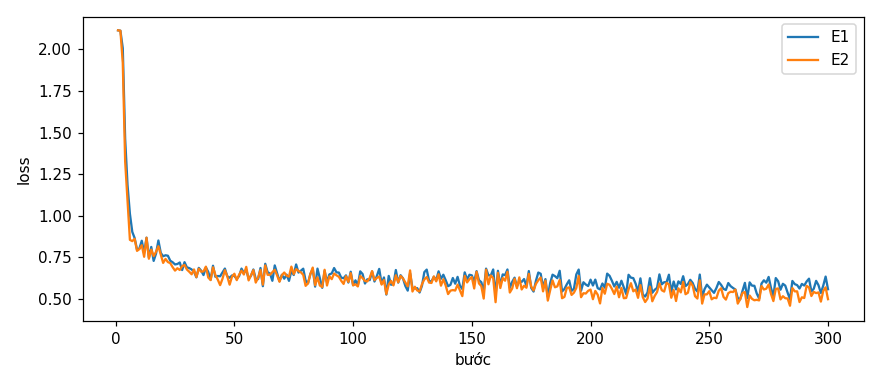
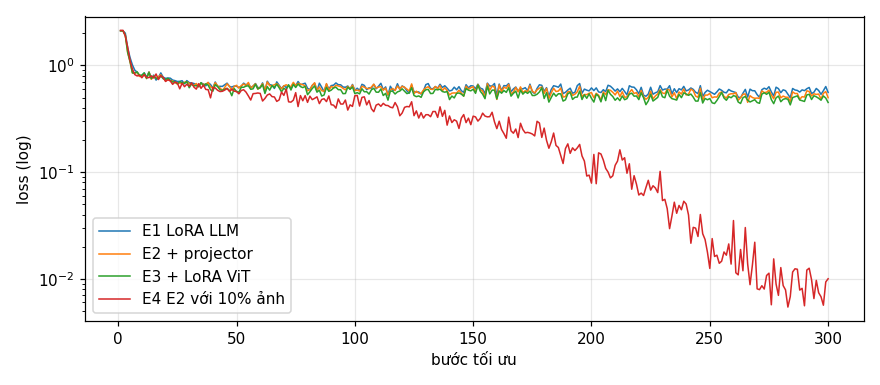
docs: hoan thien REPORT - E3/E4, cau 7-10, nhin lai; anh E3 dung/sai, loss 4 lan train

diff --git a/REPORT.md b/REPORT.md
@@ -10,11 +10,13 @@ Mọi setup: Qwen3-VL-4B-Instruct, QLoRA NF4 (double quant), `visual` + `lm_head
 | E0 | zero-shot | 0 | — (chỉ suy luận) | 0 | 0,095 | 0,069–0,125 | 1,10 | 0,157 | 0,028 | 0,213 |
 | E1 | LoRA LLM | 33.030.144 | 6,44 | 42,2 | 0,273 | 0,235–0,311 | 1,20 | 0,189 | 0,207 | 0,516 |
 | E2 | + projector | 142.135.296 | 8,13 | 49,7 | 0,327 | 0,291–0,368 | 1,12 | 0,157 | 0,285 | 0,564 |
-| E3 | + LoRA ViT | <điền: chờ Version #2> | | | | | | | | |
-| E4 | data_size = 0,1 (gốc E2) | <điền: chờ Version #2> | | | | | | | | |
+| E3 | + LoRA ViT | 148.426.752 | 8,31 | 51,1 | **0,464** | 0,424–0,507 | 0,88 | 0,340 | 0,399 | 0,689 |
+| E4 | `data_size` = 0,1 (gốc E2; 142 ảnh) | 142.135.296 | 7,58 | 41,8 | 0,214 | 0,182–0,245 | 1,89 | 0,167 | 0,142 | 0,460 |
+| E4 | `data_size` = 1,0 (= E2) | 142.135.296 | 8,13 | 49,7 | 0,327 | 0,291–0,368 | 1,12 | 0,157 | 0,285 | 0,564 |
 
-Thêm: `parse_valid_rate` E0/E1/E2 = 0,923 / 0,994 / 0,997; mean IoU của cặp khớp = 0,600 / 0,678 / 0,684.
-Đường loss: `report/figures/loss_curves.png` (E1: 2,11 → ~0,58 trung bình 10 bước cuối; E2: 2,11 → ~0,54).
+Thêm: `parse_valid_rate` E0/E1/E2/E3/E4(0,1) = 0,923 / 0,994 / 0,997 / 1,000 / 1,000; mean IoU của cặp khớp = 0,600 / 0,678 / 0,684 / 0,696 / 0,641.
+`e4_data_1.0.json` là chấm lại đúng file dự đoán của E2 dưới tên E4 (cùng một lần chạy, không train lại).
+Đường loss (`report/figures/loss_curves.png`, trung bình 10 bước cuối): E1 2,11 → 0,58; E2 → 0,54; E3 → 0,50; E4 (10% ảnh) → **0,009**.
 
 ## 10 câu hỏi (trả lời bằng **số của bạn**, không chép lại tài liệu)
 
@@ -32,7 +34,7 @@ Thêm: `parse_valid_rate` E0/E1/E2 = 0,923 / 0,994 / 0,997; mean IoU của cặp
 
 - **E1**: chỉ LoRA r=16 trên 252 module của LLM (`q,k,v,o,gate,up,down` × 36 lớp) = 33,03M tham số; ViT và projector đóng băng.
 - **E2**: E1 + projector huấn luyện **đầy đủ** ở fp32 → 142,14M; chênh E1 đúng 109.105.152 = merger + deepstack.
-- **E3**: E2 + LoRA trên 96 module của ViT (`attn.qkv, attn.proj, mlp.linear_fc1/2` × 24 block) → 348 module LoRA. Lần chạy thử in ra LoRA = 39.321.600 (LLM 33,03M + ViT 6,29M), tức tổng ≈ 148,4M. <điền: xác nhận bằng meta của e3.json>
+- **E3**: E2 + LoRA trên 96 module của ViT (`attn.qkv, attn.proj, mlp.linear_fc1/2` × 24 block) → 348 module LoRA. Log E3: `LoRA targets=llm+vit: 348 module`, `tham số huấn luyện: 148,426,752 (LoRA 39,321,600 + projector 109,105,152)` — LoRA ViT chỉ thêm 6,29M tham số. ViT vẫn ở fp16 và đóng băng phần gốc; chỉ adapter LoRA của nó được học.
 
 ### Câu 2 — E0: `parse_valid_rate` bằng bao nhiêu, và hai lỗi phổ biến nhất của model gốc là gì (kèm một ví dụ output thô)?
 `parse_valid_rate` = **0,923** (24/311 ảnh hỏng). Model gốc *không* bọc ```` ```json ```` và không viết chữ thừa (0/311), không dùng nhãn ngoài 3 lớp, chỉ 1/311 ảnh có toạ độ > 1000 — tức format và thang 0–1000 nó gần như làm đúng. Hai lỗi chính:
@@ -79,37 +81,52 @@ Giao tập phiên giữa các split đều = 0 (kiểm tra trong notebook). Ản
 
 ### Câu 7 — So sánh E1/E2/E3: mở projector và LoRA trên ViT có đáng không (F1, CI95, VRAM, thời gian)?
 - **E1 → E2 (mở projector)**: F1 0,273 → 0,327 (+0,054), crack 0,207 → 0,285, manhole 0,516 → 0,564; pothole giảm 0,189 → 0,157. Trả thêm 109M tham số, +1,69 GB VRAM, +7,5 phút (42,2 → 49,7). Đáng giá: rẻ, và cải thiện chủ yếu ở định vị (mean IoU 0,678 → 0,684, recall 0,259 → 0,312). Nhưng CI95 hai bên còn chồng nhau ở 0,291–0,311 nên chưa chắc chắn tuyệt đối.
-- **E2 → E3 (LoRA ViT)**: <điền: chờ e3.json — F1, CI95, VRAM, phút>
+- **E2 → E3 (LoRA ViT)**: F1 0,327 → **0,464** (+0,137), CI95 0,424–0,507 **tách hẳn** CI của E2 (0,291–0,368). Cả ba lớp cùng tăng: pothole 0,157 → 0,340, crack 0,285 → 0,399, manhole 0,564 → 0,689; FP/ảnh 1,12 → 0,88; recall 0,312 → 0,444. Chi phí gần như không đáng kể: +6,29M tham số, +0,18 GB VRAM (8,13 → 8,31), +1,4 phút (49,7 → 51,1).
+- **Kết luận**: đáng nhất là LoRA ViT. ViT của Qwen3-VL được tiền huấn luyện trên ảnh chung; ổ gà/vết nứt nhỏ trên ảnh dashcam 640×360 là miền khác hẳn, và chỉ chỉnh LLM hay projector thì không tạo ra được đặc trưng thị giác mà ViT không mã hoá. Bằng chứng: pothole nhỏ hơn 0,5% khung được bắt 25/68 ở E3 so với 10/65 ở E2. Thứ tự "đáng đồng tiền": E1 (rẻ nhất, +0,178 so với E0) → E3 (thêm 115M tham số so với E1, +1,87 GB, +9 phút, F1 tăng 70% so với E1). Nếu bị giới hạn VRAM ~6,5 GB thì E1 là lựa chọn duy nhất.
 
 ### Câu 8 — Tập test có 311 ảnh: khoảng tin cậy rộng thế nào, và điều đó giới hạn kết luận so sánh các setup ra sao?
-CI95 bootstrap theo ảnh (1.000 lần) rộng: E0 0,056; E1 **0,076**; E2 **0,077** điểm F1 — tức ±0,04 quanh điểm ước lượng. Hệ quả:
+CI95 bootstrap theo ảnh (1.000 lần) rộng: E0 0,056; E1 **0,076**; E2 **0,077**; E3 **0,083**; E4(0,1) 0,063 điểm F1 — tức khoảng ±0,04 quanh điểm ước lượng. Hệ quả:
 - **E0 → E1**: chắc chắn (CI 0,069–0,125 và 0,235–0,311 tách xa) — finetune thật sự học được.
+- **E2 → E3**: chắc chắn (0,291–0,368 và 0,424–0,507 cách nhau 0,056) — LoRA ViT là kết luận đứng vững nhất của bài.
+- **E4 0,1 vs 1,0**: chắc chắn (0,182–0,245 và 0,291–0,368 cách nhau 0,046).
 - **E1 → E2**: +0,054 nhưng hai CI chồng nhau 0,02; với cách đọc "CI không chồng thì khác biệt rõ", mình chỉ có thể nói E2 *có xu hướng* tốt hơn. (So sánh chặt hơn sẽ là bootstrap ghép cặp trên cùng ảnh cho hiệu F1.)
-- **Theo lớp** còn yếu hơn: test chỉ có 121 pothole trong 3 phiên, nên chênh 0,189 vs 0,157 ở pothole là trong mức nhiễu.
-- Chỉ 3 phiên test → CI chỉ phản ánh nhiễu lấy mẫu ảnh, không phản ánh nhiễu giữa các *phiên*/điều kiện quay; độ bất định thật còn lớn hơn.
-<điền: thêm E3/E4 khi có>
+- **Theo lớp** còn yếu hơn: test chỉ có 121 pothole trong 3 phiên, nên chênh 0,189 vs 0,157 ở pothole giữa E1 và E2 là trong mức nhiễu (mức tăng 0,157 → 0,340 ở E3 thì lớn hơn nhiều).
+- Chỉ 3 phiên test → CI chỉ phản ánh nhiễu lấy mẫu ảnh, không phản ánh nhiễu giữa các *phiên*/điều kiện quay; độ bất định thật còn lớn hơn. Mỗi setup cũng chỉ chạy **1 seed**, nên CI không chứa phương sai do khởi tạo/thứ tự dữ liệu — một khác biệt cỡ 0,05 (E1 vs E2) có thể đảo chiều khi đổi seed.
 
 ### Câu 9 — Phân tích lỗi theo lớp: lớp nào kém nhất và vì sao (kích thước box, số mẫu, ngữ nghĩa)? Kèm ảnh minh hoạ.
-**Pothole kém nhất** (E2: P 0,165, R 0,149, F1 0,157; 91 FP, 103 FN), dù train có 1.074 box pothole — nhiều gần bằng crack.
-- **Kích thước**: diện tích trung vị pothole chỉ 0,38% khung (crack 1,35%). Trong test, 65/117 pothole (ảnh parse được) nhỏ hơn 0,5% khung; E2 chỉ bắt được 10/65 trong số đó. Với box ~20×12 px, lệch vài pixel đã làm IoU < 0,5 (ảnh dưới-trái: box dự đoán nằm ngay cạnh pothole thật nhưng không đủ IoU). Mỗi ảnh chỉ có 220 token ảnh (mỗi token ≈ 32×32 px) nên vật nhỏ hơn một token rất khó định vị.
-- **Ngữ nghĩa / nhầm lớp**: trong E2, 18 nắp cống bị gọi là pothole (E1: 5) và 14 pothole bị gọi là crack — chỗ vỡ quanh nắp cống và ổ gà trông giống nhau ở độ phân giải này; ảnh dưới-giữa là ví dụ.
-- **Lặp box**: ảnh dưới-phải, model xếp chồng 6 box pothole theo chiều dọc — dư âm của lỗi lặp ở E0.
-- **Manhole tốt nhất** (F1 0,564, precision 0,70): hình dạng đều, tương phản rõ; lỗi còn lại chủ yếu là nắp nhỏ ở xa (recall 18/64 với box < 0,5%).
-- **Crack**: precision thấp (0,28) vì ranh giới vết nứt mơ hồ — nhãn crack thường là box lớn bao cả vùng nứt, model hay chia khác hoặc khoanh rộng hơn.
+**Pothole kém nhất ở mọi setup đã finetune.** Với setup tốt nhất E3: pothole F1 0,340 (P 0,342, R 0,339; 79 FP, 80 FN) so với crack 0,399 và manhole 0,689. Ở E2 còn tệ hơn: 0,157. Điều này xảy ra dù train có 1.074 box pothole, gần bằng crack, nên nguyên nhân không nằm ở **số mẫu train**. Nguyên nhân nằm ở:
+- **Kích thước**: diện tích trung vị của pothole chỉ 0,38% khung hình (crack 1,35%). Trong test, 68/121 pothole nhỏ hơn 0,5% khung. E3 bắt được 25/68 box loại này, E2 chỉ 10/65. Mỗi ảnh chỉ có 220 token ảnh (mỗi token ≈ 32×32 px), nên một ổ gà ~20×12 px còn nhỏ hơn một token. Lệch vài pixel là IoU đã < 0,5: ở ảnh dưới-trái của `e3_examples.png`, các box pothole dự đoán nằm ngay sát ổ gà thật nhưng vẫn bị tính FP + FN.
+- **Ngữ nghĩa / nhầm lớp** (cặp GT–dự đoán có IoU ≥ 0,5 nhưng khác lớp): ở E3 có 12 crack bị gọi là pothole, 10 pothole bị gọi là crack và 8 manhole bị gọi là pothole. Ở E2, số manhole bị gọi là pothole là 18. Mặt đường vỡ quanh nắp cống, ổ gà nông và vết nứt mạng (alligator crack) trông rất giống nhau ở độ phân giải này. Ảnh dưới-giữa: cả vùng ổ gà bị khoanh thành 5 box crack.
+- **Điều kiện ảnh**: hai ảnh sai của E3 đều là cảnh **ngược sáng** trong phiên `vlc-2025-02-18-23`, mặt đường vỡ nhiều nên các box chồng chéo nhau.
+- **Số mẫu ở val/test**: val chỉ có 66 pothole, test có 121, nên F1 pothole có nhiễu lớn nhất (Câu 8).
+- **Manhole tốt nhất** (E3: F1 0,689, P 0,757) vì hình dạng đều và tương phản rõ. Lỗi còn lại chủ yếu là nắp nhỏ ở xa: recall 26/64 với box < 0,5% so với 75/96 với box 0,5–2%.
+- **Crack**: precision chỉ 0,414 vì ranh giới vết nứt mơ hồ. Nhãn crack thường là box lớn bao cả vùng nứt, còn model hay chia nhỏ ra hoặc khoanh khác; 15 crack nhỏ hơn 0,5% khung gần như không bao giờ bắt được (1/15).
 
-Ảnh: `report/figures/e2_examples.png` (3 đúng, 3 sai; nét liền = dự đoán, nét đứt = nhãn) và `report/figures/e0_examples.png` (zero-shot).
+Ảnh: `report/figures/e3_examples.png` (E3, 3 đúng / 3 sai), `report/figures/e2_examples.png` (E2) và `report/figures/e0_examples.png` (zero-shot). Nét liền là dự đoán, nét đứt là nhãn đúng; đỏ là pothole, vàng là crack, xanh là manhole.
+
+![E3 đúng/sai](report/figures/e3_examples.png)
 
 ![E2 đúng/sai](report/figures/e2_examples.png)
 
 ### Câu 10 — E4: bạn đổi biến nào, kết quả thế nào, và kết luận có đáng tin không?
-Biến: **`data_size`**, giữ nguyên mọi thứ của setup tốt nhất sau E1–E2 là **E2** (LoRA LLM r=16 + projector fp32, 300 bước). Hai giá trị: 1,0 (chính là E2, F1 0,327) và 0,1 (142 ảnh train chọn ngẫu nhiên seed 42 — với 300 bước × 8 ảnh ≈ 17 epoch).
-<điền: kết quả e4_data_0.1.json, so CI95, và lưu ý nếu E3 > E2 thì gốc E4 không còn là setup tốt nhất>
+Biến được đổi: **`data_size`**. Mọi thứ khác giữ nguyên như **E2** (LoRA LLM r=16 + projector fp32, 300 bước, lr 2e-4, seed 42). Lúc chọn biến này, E2 là setup tốt nhất vì E3 chưa chạy (E3 và E4 chạy song song trên 2 GPU).
+
+| `data_size` | Ảnh train | Epoch ≈ | F1 | CI95 | P | R | FP/ảnh | pothole / crack / manhole | Loss cuối |
+|---|---|---|---|---|---|---|---|---|---|
+| 0,1 | 142 | ~17 | 0,214 | 0,182–0,245 | 0,192 | 0,240 | **1,89** | 0,167 / 0,142 / 0,460 | **0,009** |
+| 1,0 (= E2) | 1.422 | ~1,7 | 0,327 | 0,291–0,368 | 0,343 | 0,312 | 1,12 | 0,157 / 0,285 / 0,564 | 0,54 |
+
+- **Kết quả**: chỉ dùng 10% dữ liệu thì F1 giảm 0,113. Hai CI95 không chồng nhau (cách 0,046), nên **kết luận "dữ liệu nhiều hơn tốt hơn" là đáng tin** trong phạm vi tập test này.
+- **Cơ chế là overfit**: với cùng 300 bước, 142 ảnh bị lặp lại khoảng 17 lần. Loss train xuống tới 0,009, tức model thuộc lòng đáp án, trong khi E2 dừng ở 0,54. Ra test, model sinh nhiều box hơn hẳn (728 box so với 530) nhưng precision giảm (0,192 so với 0,343), FP/ảnh tăng lên 1,89. Crack bị ảnh hưởng nặng nhất (0,285 → 0,142). Riêng pothole gần như không đổi (0,167 so với 0,157), nằm trong mức nhiễu.
+- **Đáng tin tới đâu**: chỉ có 1 seed và 1 lần lấy mẫu 10% ảnh. 142 ảnh đó đến từ 13 phiên train, nên một lần lấy mẫu khác có thể cho kết quả khác. Khoảng cách 0,113 lớn hơn nhiều so với độ rộng CI (~0,07), nên chiều của kết luận khó bị đảo, nhưng độ lớn chính xác của nó thì chưa chắc chắn. Hai giá trị cũng có số epoch khác nhau (17 so với 1,7). Đây là hệ quả tự nhiên khi giữ cố định 300 bước theo GUIDE, nên E4 đo "ít dữ liệu ở cùng ngân sách tính toán", chứ không đo "ít dữ liệu ở cùng số epoch".
+- **Hạn chế**: E3 cuối cùng vượt E2 (F1 0,464), nên E4 **không** được làm trên setup tốt nhất như GUIDE yêu cầu. Thí nghiệm vẫn sạch vì chỉ đổi đúng một biến so với E2. Để đúng yêu cầu, cần chạy lại `data_size = 0,1` trên gốc E3 (khoảng 50 phút GPU).
 
 ## Nhìn lại
 
-<điền: hoàn thiện sau E3/E4>
-
-- **Lỗi cấu hình mà công cụ chấm không bắt được**: `llm_int8_skip_modules=["visual"]` âm thầm lượng tử hoá ViT trên transformers 5.x (Câu 5). E0 và E1 vẫn chạy bình thường; chỉ lộ ra khi huấn luyện projector. `score.py` không thể biết model được nạp thế nào → mình thêm kiểm tra số `Linear4bit` ngay khi nạp.
-- **Môi trường**: Kaggle cài sẵn torchao 0.10 trong khi peft 0.21.2 đòi ≥ 0,16 — chỉ hỏng khi gắn LoRA lên `nn.Linear` thường (ViT, E3); LoRA lên lớp 4-bit (E1/E2) đi nhánh bitsandbytes nên không gặp. Đã gỡ torchao trong ô cài đặt.
-- **Lỗi dữ liệu**: 35 box vượt mép ảnh (tới 10 px), 1 box crack cao 0 px trong train (`vlcsnap-00058`); `score.py` vẫn chấm GT chưa kẹp nên một box dự đoán kẹp đúng mép có IoU tối đa ~0,87–0,99 thay vì 1. Val chỉ có 66 pothole → không dùng val để chọn theo pothole được.
-- **Chưa hiểu hết**: vì sao mở projector làm F1 crack/manhole tăng nhưng pothole giảm và nhầm manhole→pothole tăng từ 5 lên 18 — có thể do projector fp32 học nhanh hơn (lr 2e-4 cho 109M tham số đầy đủ là khá lớn) và thiên về đặc trưng "vùng tối, bề mặt vỡ" chung cho cả hai lớp.
+- **Lỗi cấu hình mà công cụ chấm không bắt được**: `llm_int8_skip_modules=["visual"]` âm thầm lượng tử hoá ViT trên transformers 5.x (Câu 5). E0 và E1 vẫn chạy bình thường; lỗi chỉ lộ ra khi huấn luyện projector. `score.py` không thể biết model được nạp như thế nào, nên mình thêm bước kiểm tra số `Linear4bit` ngay khi nạp model.
+- **Môi trường**: Kaggle cài sẵn torchao 0.10 trong khi peft 0.21.2 đòi ≥ 0,16. Lỗi chỉ xuất hiện khi gắn LoRA lên `nn.Linear` thường (ViT, E3); LoRA lên lớp 4-bit (E1/E2) đi nhánh bitsandbytes nên không gặp. Mình đã gỡ torchao trong ô cài đặt.
+- **Lỗi dữ liệu**: 35 box vượt mép ảnh (tới 10 px) và 1 box crack cao 0 px trong train (`vlcsnap-00058`). `score.py` chấm theo GT chưa kẹp, nên một box dự đoán kẹp đúng mép chỉ đạt IoU tối đa khoảng 0,87–0,99 thay vì 1. Val chỉ có 66 pothole nên không dùng val để chọn setup theo pothole được.
+- **Điều đáng nhớ nhất**: phần tốn ít tham số nhất (LoRA ViT, +6,29M) lại cho mức tăng lớn nhất (+0,137 F1). Với bài toán vật thể nhỏ ở miền ảnh lạ, chỗ nghẽn nằm ở đặc trưng thị giác, không nằm ở LLM.
+- **Chưa hiểu hết**:
+  - Vì sao mở projector (E2) làm crack và manhole tăng nhưng pothole giảm, và số manhole bị gọi là pothole tăng từ 5 lên 18, rồi đến E3 lại giảm còn 8. Có thể projector fp32 học quá nhanh (lr 2e-4 cho 109M tham số đầy đủ là khá lớn) và thiên về đặc trưng "vùng tối, bề mặt vỡ" chung cho hai lớp; LoRA ViT sau đó cho đặc trưng đủ phân biệt hơn. Mình chưa kiểm chứng giả thuyết này.
+  - Mỗi setup chỉ chạy 1 seed, nên mình không biết phần chênh E1 so với E2 có lặp lại được không.
